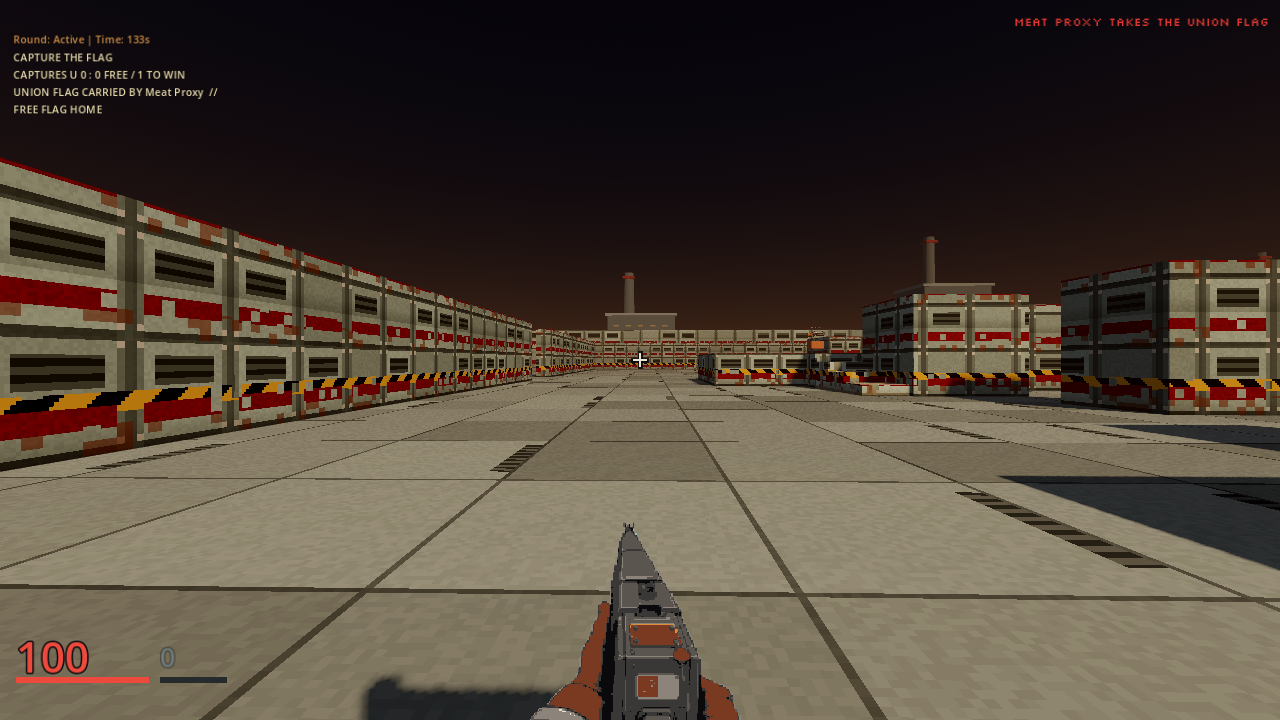
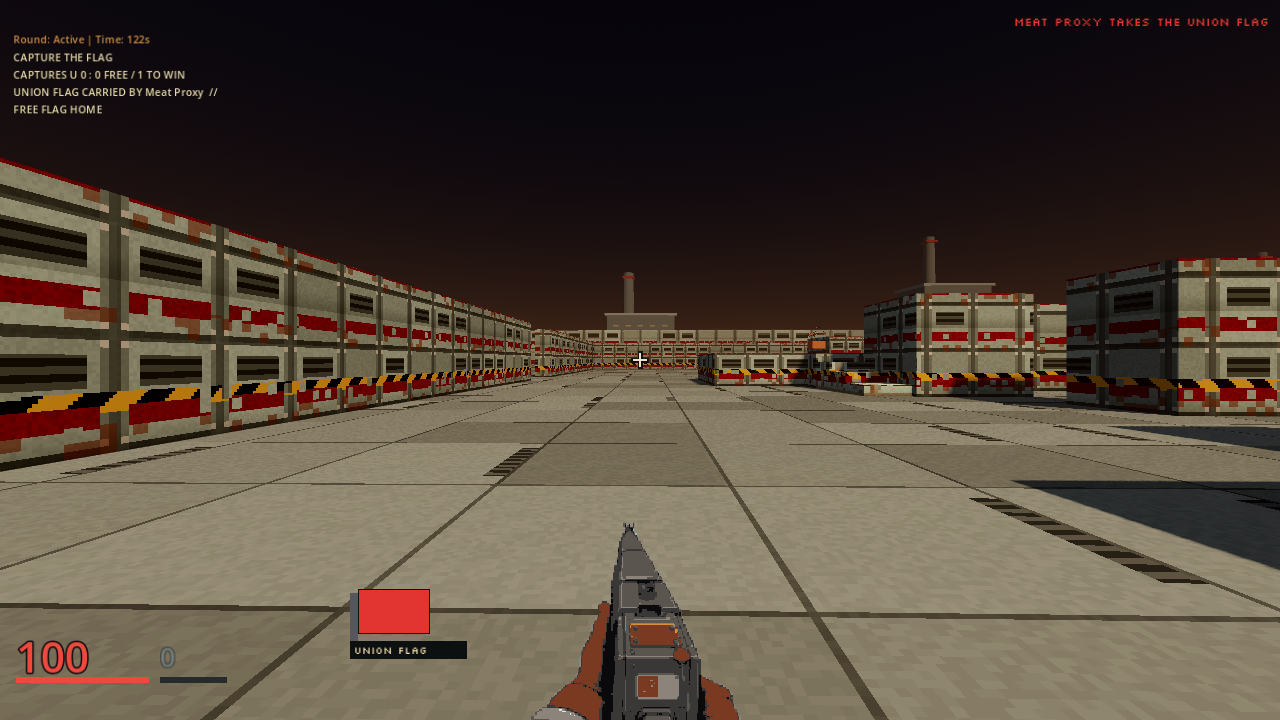
feat: show a carried flag beside the first-person weapon
The hand grip sits below the eye, so the carrier only had the corner line. The world marker stays for everyone else, and this view gets the side cloth and the stand words.

diff --git a/docs/plans/ctf-fp-carry.md b/docs/plans/ctf-fp-carry.md
@@ -1,0 +1,37 @@
+# First-person flag carry
+
+**Status:** in flight, 2026-09-29. A presentation follow-up to the [hand grip](ctf-flag-nameplate.md).
+
+## Goal and why
+
+The third-person still shows the Free flag in Aunt Linda's hand. The joined first-person still does not. `docs/screenshots/ctf_fighter_carried.png` is Meat Proxy with the Railgun, the corner line `UNION FLAG CARRIED BY Meat Proxy`, and no cloth in the view. The server had already recorded the take.
+
+First person hides the body and the world weapon. The grip sits at the weapon hand, about 0.7 m below an eye that is only 0.1 m above the pawn origin, so it is outside the view. The corner chip is the only carry read, and it is easy to miss while aiming.
+
+## Design
+
+No server rule changes. Touch radius, drop grace, return timer, capture limit, stands, Sector 9 geometry, bot policy, and the third-person grip constants stay as they are. `FLAG_*` copy stays. The league flag stays a staged match marker.
+
+`ArenaFlags.set_first_person_carrier` is set before `apply`. When a carried flag's carrier is that id and the pawn is in the scene, the world marker stays seated and stays hidden. Home flags, dropped flags, and every other carrier stay visible. `_process` keeps seating a hidden grip and does not show it again. Leaving first person clears the id; the next apply shows the grip.
+
+The HUD draws the same read beside the viewmodel. `HUD.set_fp_carried_flag` accepts `union` or `coalition`. The cloth uses `MatchRules.team_label_color`. The pole uses `MatchRules.team_body_color`, steel for Union and bone for the Free Coalition, matching the world grip. The words are the existing `FLAG_WORLD_UNION` and `FLAG_WORLD_COALITION` strings, in the pixel font, at the mode chip's size and outline, on an ink plate so they stay readable on the pale floor. The pennant sits left of the weapon, clear of the crosshair and of the health numerals. Fists use that same side of the viewmodel. It is hidden when first-person presentation is off, and it ignores the pointer.
+
+The local subject is the joined human whose pawn is in the scene, including the snapshot that enters first person. A spectator's subject is the followed pawn, and only while `is_observing_first_person` is true. The team is the flag whose status is `carried` and whose carrier is that subject, checked with `MatchRules.valid_team`.
+
+## Non-goals
+
+No level 3 work, no new weapon, no flag rename, and no change to interpolation or transport. Human and spectator acceptance of a full Sector 9 round stays open. The third-person grip still is `docs/screenshots/ctf_live_carried.png` and is not replaced by this view.
+
+## Architecture and protocol
+
+Client presentation only. The snapshot shape, gameplay capability, and MCP tools are unchanged.
+
+## Verification and spend
+
+`test_flag_state.gd` hides the named carrier's grip, keeps the other carried flag, keeps a dropped flag visible, and restores the grip when the id is cleared. `test_match_rules.gd` shows `UNION FLAG` and `FREE FLAG` on the pennant, rejects an unknown side, and hides the pennant when first person turns off. Both passed on Godot 4.7.2-stable. `tools/godot_check.sh` passed on that binary after the words moved onto the ink plate. External spend is $0.
+
+The joined tour was `FRAGR_QA_MANIFEST=res://qa/ctf_fighter_capture.json FRAGR_QA_MODE=ctf FRAGR_QA_MAP=4 FRAGR_QA_BOTS=0 FRAGR_QA_CAPTURE_LIMIT=1 FRAGR_QA_SEED=42 FRAGR_PORT=6842 tools/qa_tour.sh .agents/qa/ctf-fp-carry-2`, without `--publish`. The enemy-stand frame shows the Union cloth and `UNION FLAG` beside the Railgun, clear of the crosshair and the health numerals. The same moment with the HUD hidden has no second grip in view. The capture frame drops the pennant, scores Free 1, and ends the round. That enemy-stand frame is [docs/screenshots/ctf_fighter_carried.png](../screenshots/ctf_fighter_carried.png).
+
+## Success
+
+A joined first-person carrier sees the flag's side colour and the stand words beside the weapon, and does not see a second copy of that grip in the world. Another fighter's flag, and the same flag seen from third person, still use the hand grip.

diff --git a/docs/plans/README.md b/docs/plans/README.md
@@ -45,6 +45,7 @@ Status words: **proposed** (a design awaiting Nick's decision; directs no work),
 | [`ctf-rule-bot-escort.md`](./ctf-rule-bot-escort.md) | **shipped** ([#299](https://github.com/blisspixel/fragr/pull/299)) | One defender and one escort for a Sector 9 side of at least three rule bots. A Windows twelve-bot replay stayed on the clock, with 2, 2, 2, 1 and 2 captures. |
 | [`ctf-carried-label.md`](./ctf-carried-label.md) | **shipped** ([#300](https://github.com/blisspixel/fragr/pull/300), v0.59.0) | Carried flags say they are carried, on the cloth offset. Home and dropped labels stay on the pole. The live carried still shows the new words. |
 | [`ctf-flag-nameplate.md`](./ctf-flag-nameplate.md) | **shipped** ([#305](https://github.com/blisspixel/fragr/pull/305), v0.60.0) | A carried Sector 9 flag leaves its stand for a short grip in the carrier's hand. The empty stand dims. A nameplate still yields when it would cover the cloth or the world words. |
+| [`ctf-fp-carry.md`](./ctf-fp-carry.md) | **in flight** | The first-person carrier sees that flag's cloth beside the weapon. The world grip stays for everyone else. |
 | [`traveling-shot.md`](./traveling-shot.md) | **implemented** ([#302](https://github.com/blisspixel/fragr/pull/302)) | A server-owned point travels on a non-mission fixture, hits with the combat ray, and stays omitted from the snapshot while nothing is in flight. |
 | [`ctf-carry-episodes.md`](./ctf-carry-episodes.md) | **implemented**, [draft #295](https://github.com/blisspixel/fragr/pull/295) | Bounded per-carry progress and outcome evidence from the existing CTF observer; human and spectator acceptance remains open. |
 | [`ctf-socket-smoke.md`](./ctf-socket-smoke.md) | **implemented**, [draft #295](https://github.com/blisspixel/fragr/pull/295) | Controlled real-socket flag capture and asserted contested combat are separate CI gates; exact-head Linux CI passed, human match remains. |

diff --git a/docs/ROADMAP.md b/docs/ROADMAP.md
@@ -238,7 +238,8 @@ Frag totals are not a cross-platform lock
 flag is carried, offset onto the cloth, in v0.59.0
 ([plan](plans/ctf-carried-label.md)). A carried flag leaves the stand for a short grip in the carrier's hand, in
 front of the body, and the empty stand dims, so the take reads at a glance
-([plan](plans/ctf-flag-nameplate.md)). Two-bot goals are unchanged. A controlled socket
+([plan](plans/ctf-flag-nameplate.md)). In first person that grip sits below the eye, so the carrier sees the side cloth and the stand words beside the weapon
+([plan](plans/ctf-fp-carry.md)). Two-bot goals are unchanged. A controlled socket
 gate proves a complete capture, while contested matches test combat and flag
 replication. Neither gate establishes human or spectator clarity. See the
 [carry evidence](plans/ctf-carry-episodes.md) and
